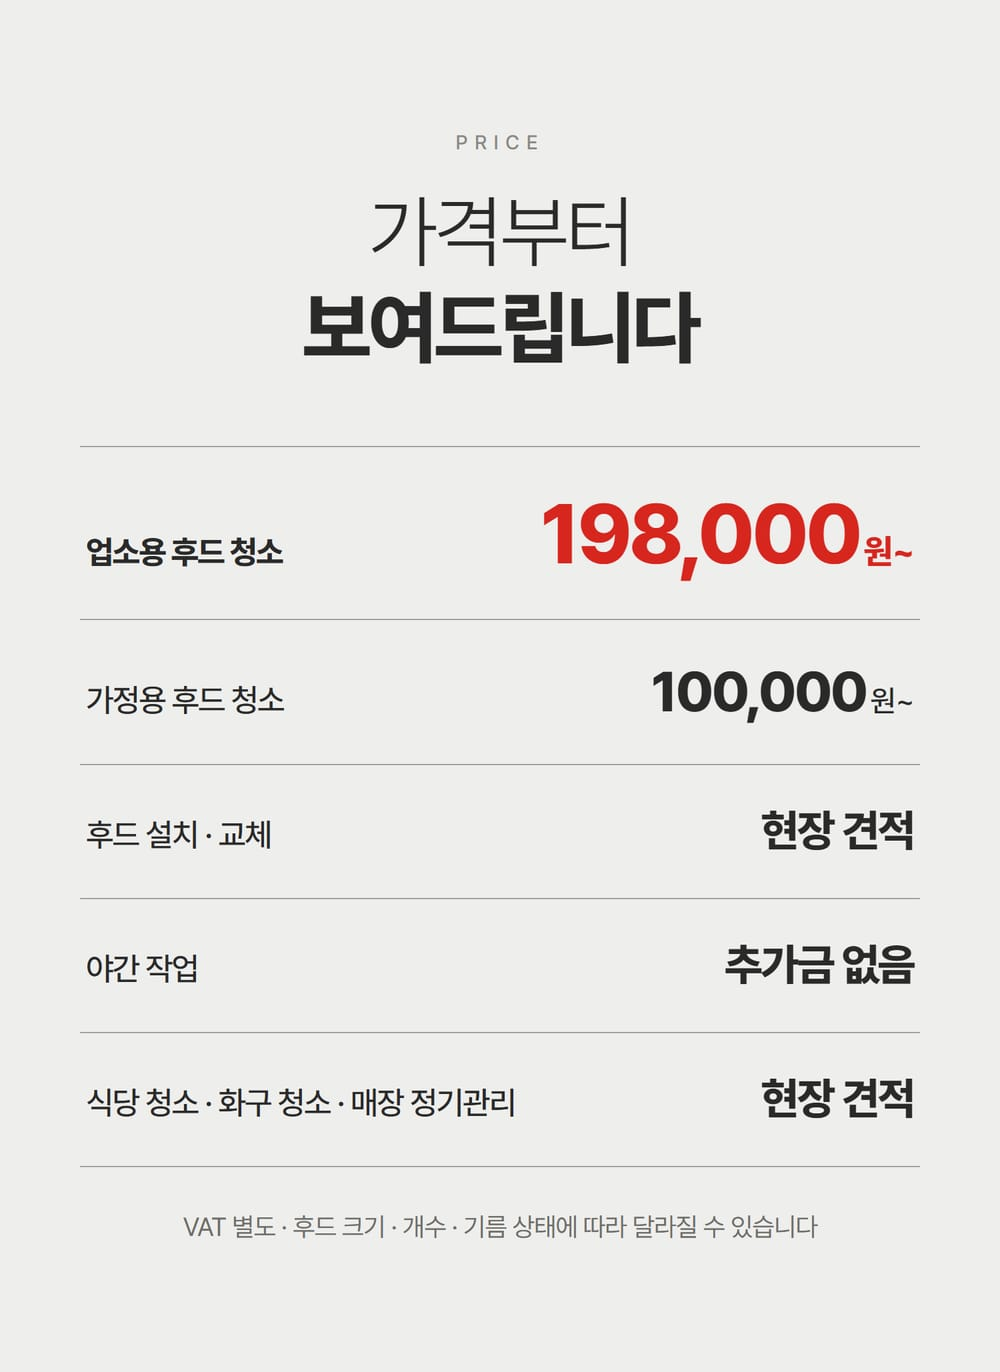
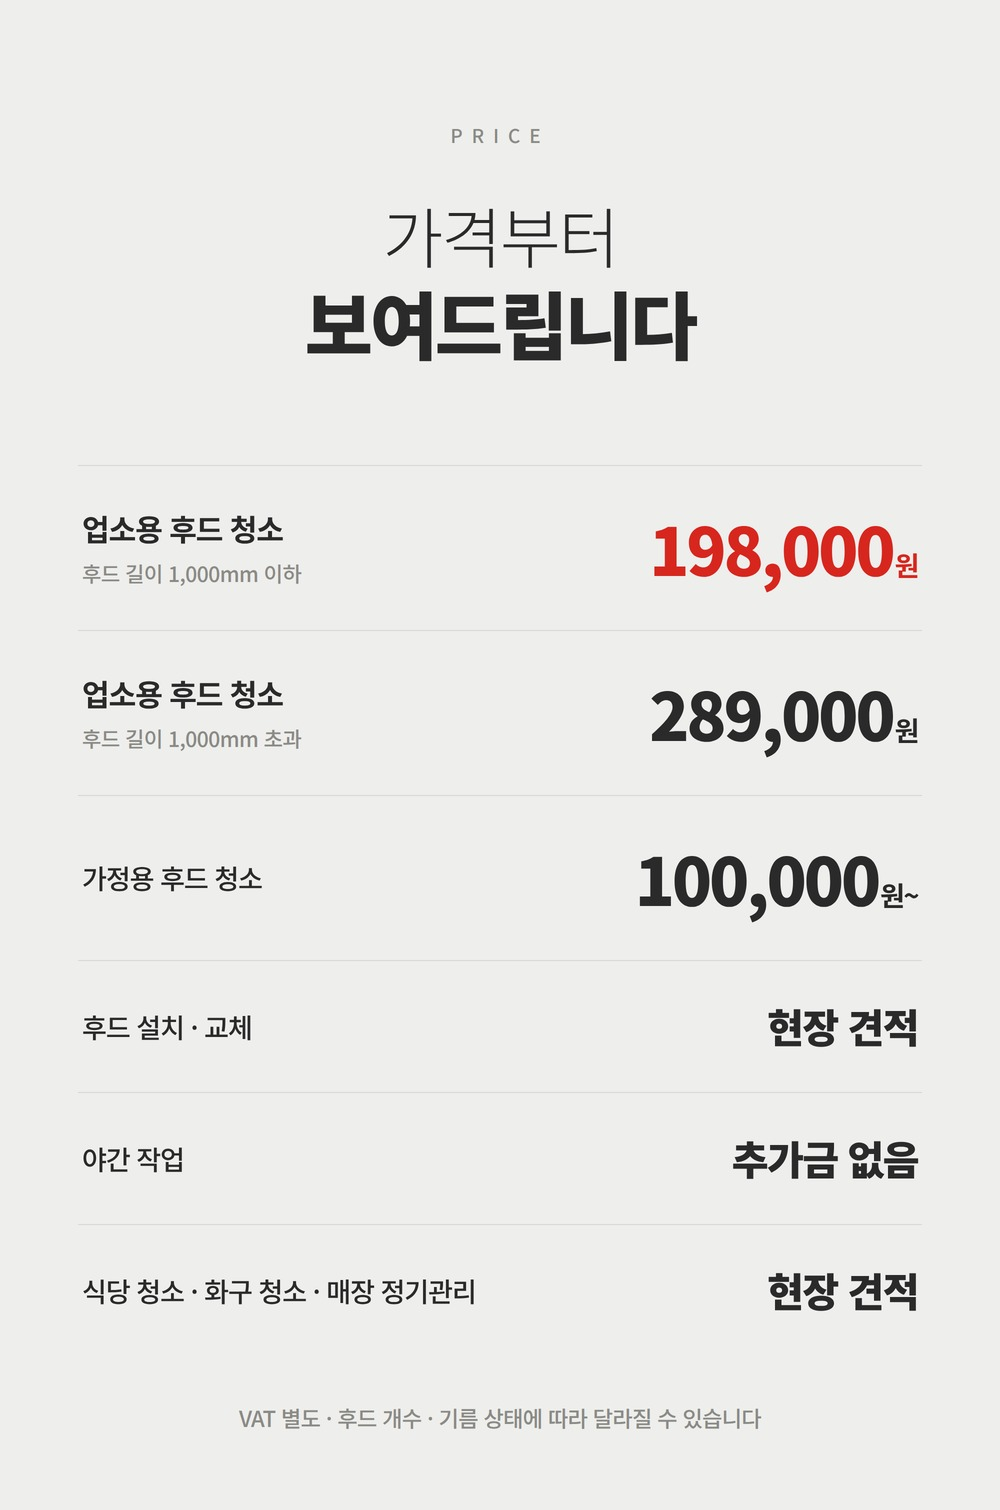
주방후드 랜딩 가격표 2단 - 1000mm 기준 198,000 / 289,000

diff --git a/public/hood.html b/public/hood.html
@@ -193,7 +193,7 @@ footer b{color:var(--ink)}
 <div class="sec" data-img="img/hood/s9.jpg" data-w="1000" data-h="1027" data-alt="더 확실하게. 작업 전후 사진, 추가금은 작업 전에만, 작동 확인 후 결제" data-label="S9 더 확실하게"></div>
 <div class="sec" data-img="img/hood/s10.jpg" data-w="1000" data-h="1565" data-alt="낡은 후드는 새 후드로. 후드 설치 · 교체, 현장 확인 후 견적" data-label="S10 후드 설치 · 교체"></div>
 <div class="sec" data-img="img/hood/s11.jpg" data-w="1000" data-h="3531" data-alt="후드만이 아닙니다, 매장 관리도 함께. 식당 청소 · 후드, 업소용 화구 청소, 상가 · 매장 정기관리" data-label="S11 함께 맡길 수 있는 관리"></div>
-<div class="sec" id="price" data-img="img/hood/s12.jpg" data-w="1000" data-h="1372" data-alt="가격부터 보여드립니다. 업소용 후드 청소 198,000원~, 가정용 후드 청소 100,000원~, 후드 설치 · 교체 현장 견적, 야간 작업 추가금 없음, 식당 청소 · 화구 청소 · 매장 정기관리 현장 견적. VAT 별도" data-label="S12 가격"></div>
+<div class="sec" id="price" data-img="img/hood/s12.jpg" data-w="1000" data-h="1510" data-alt="가격부터 보여드립니다. 업소용 후드 청소 후드 길이 1,000mm 이하 198,000원 · 1,000mm 초과 289,000원, 가정용 후드 청소 100,000원~, 후드 설치 · 교체 현장 견적, 야간 작업 추가금 없음, 식당 청소 · 화구 청소 · 매장 정기관리 현장 견적. VAT 별도 · 후드 개수 · 기름 상태에 따라 달라질 수 있습니다" data-label="S12 가격"></div>
 <div class="sec" data-img="img/hood/s13.jpg" data-w="1000" data-h="2591" data-alt="접수부터 완료까지 5단계. 기름 냄새, 이번 주 마감 후에 끝내세요. 1866-2003" data-label="S13 진행 · 마지막"></div>
 
 <a class="go-band" href="#apply2">
